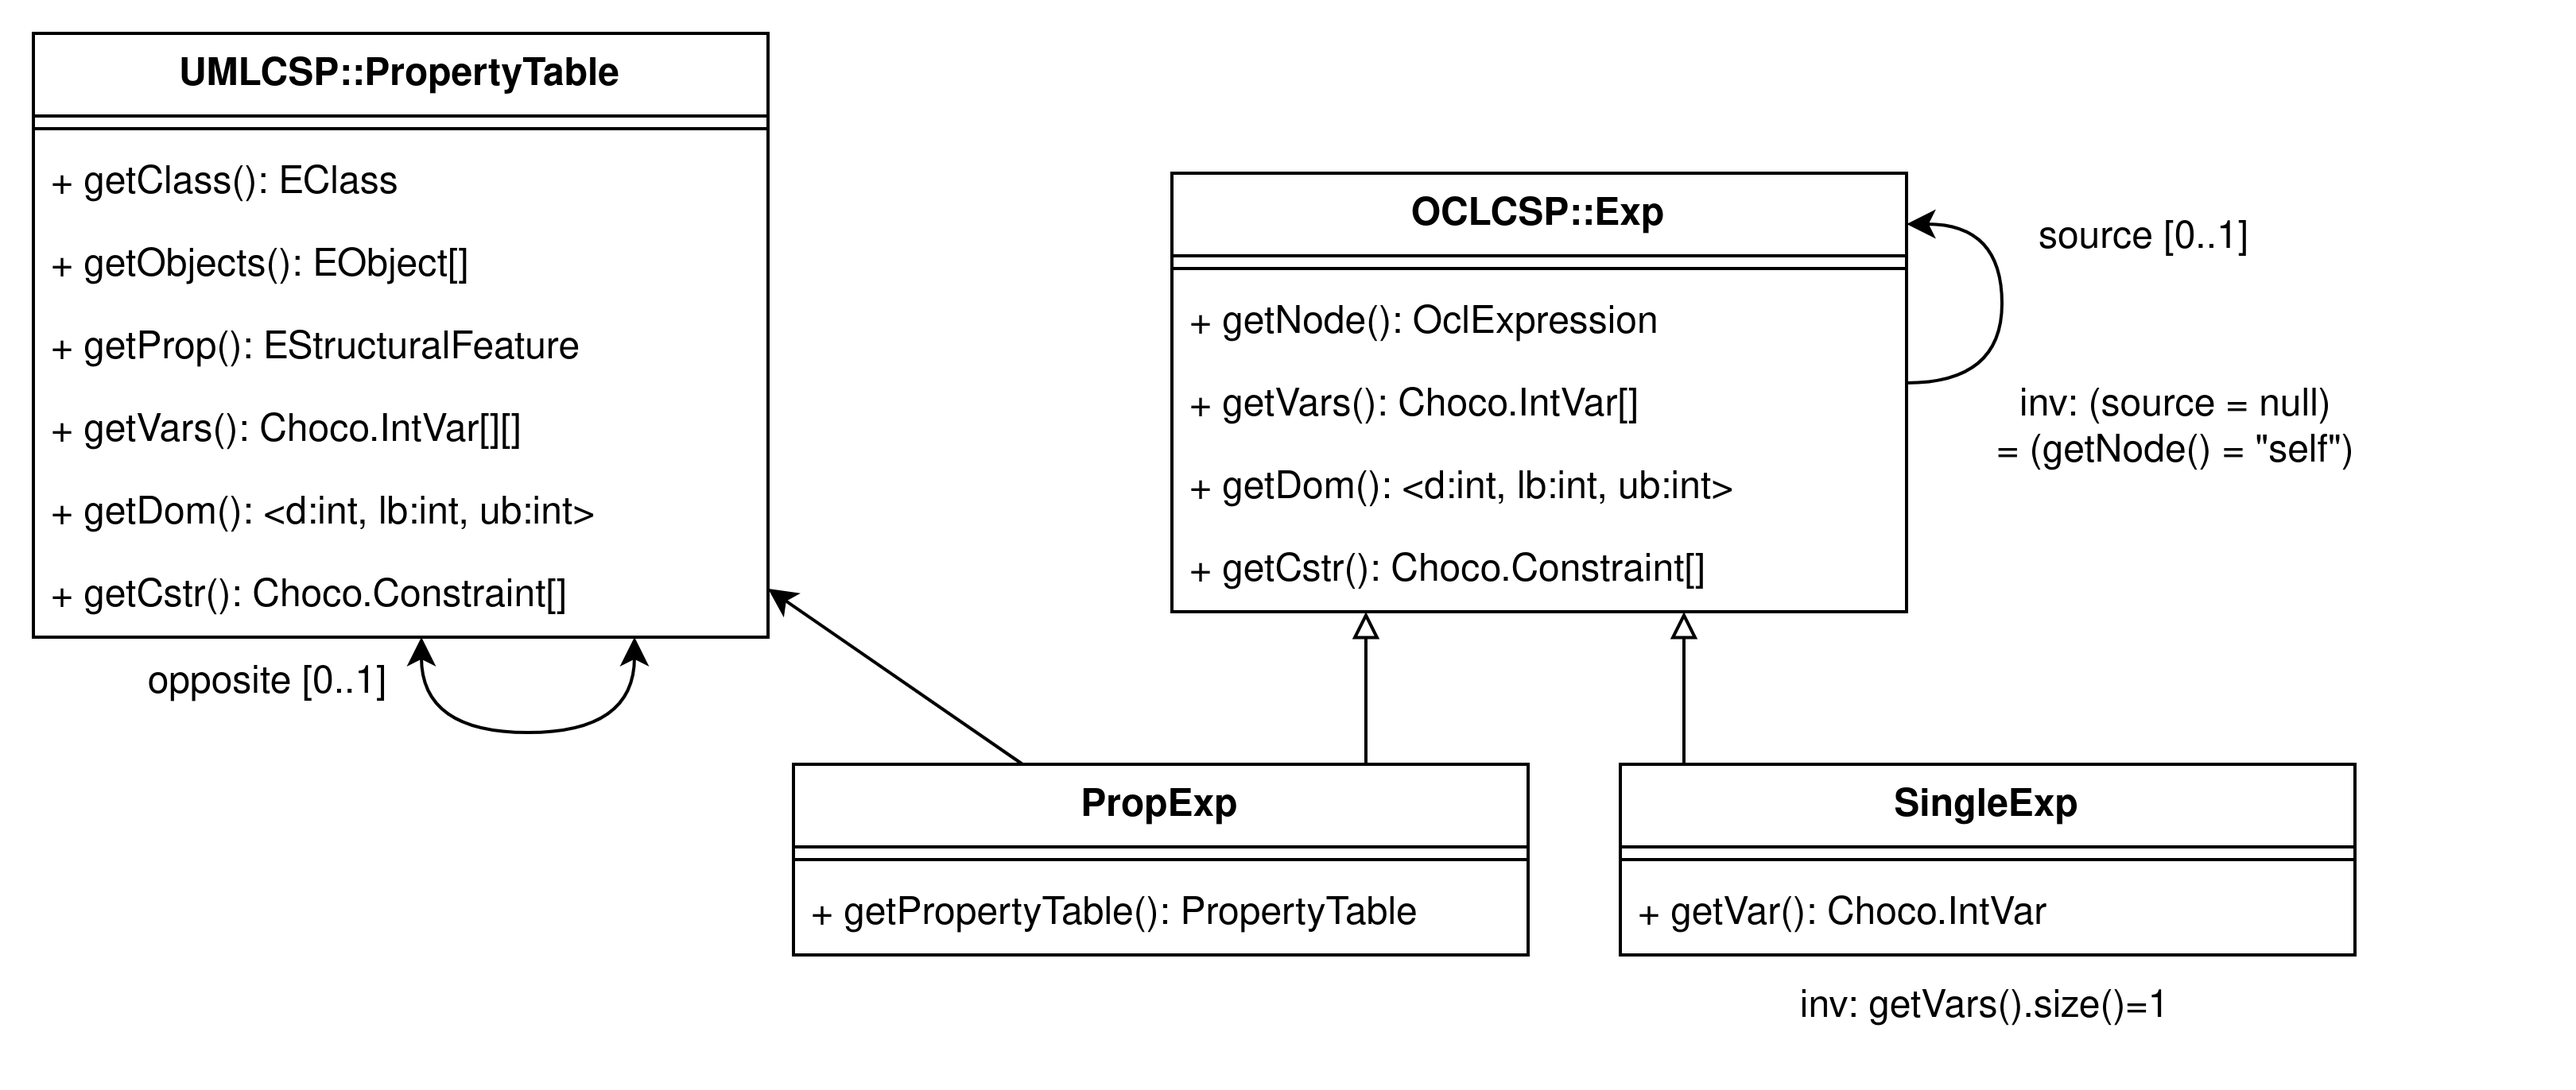
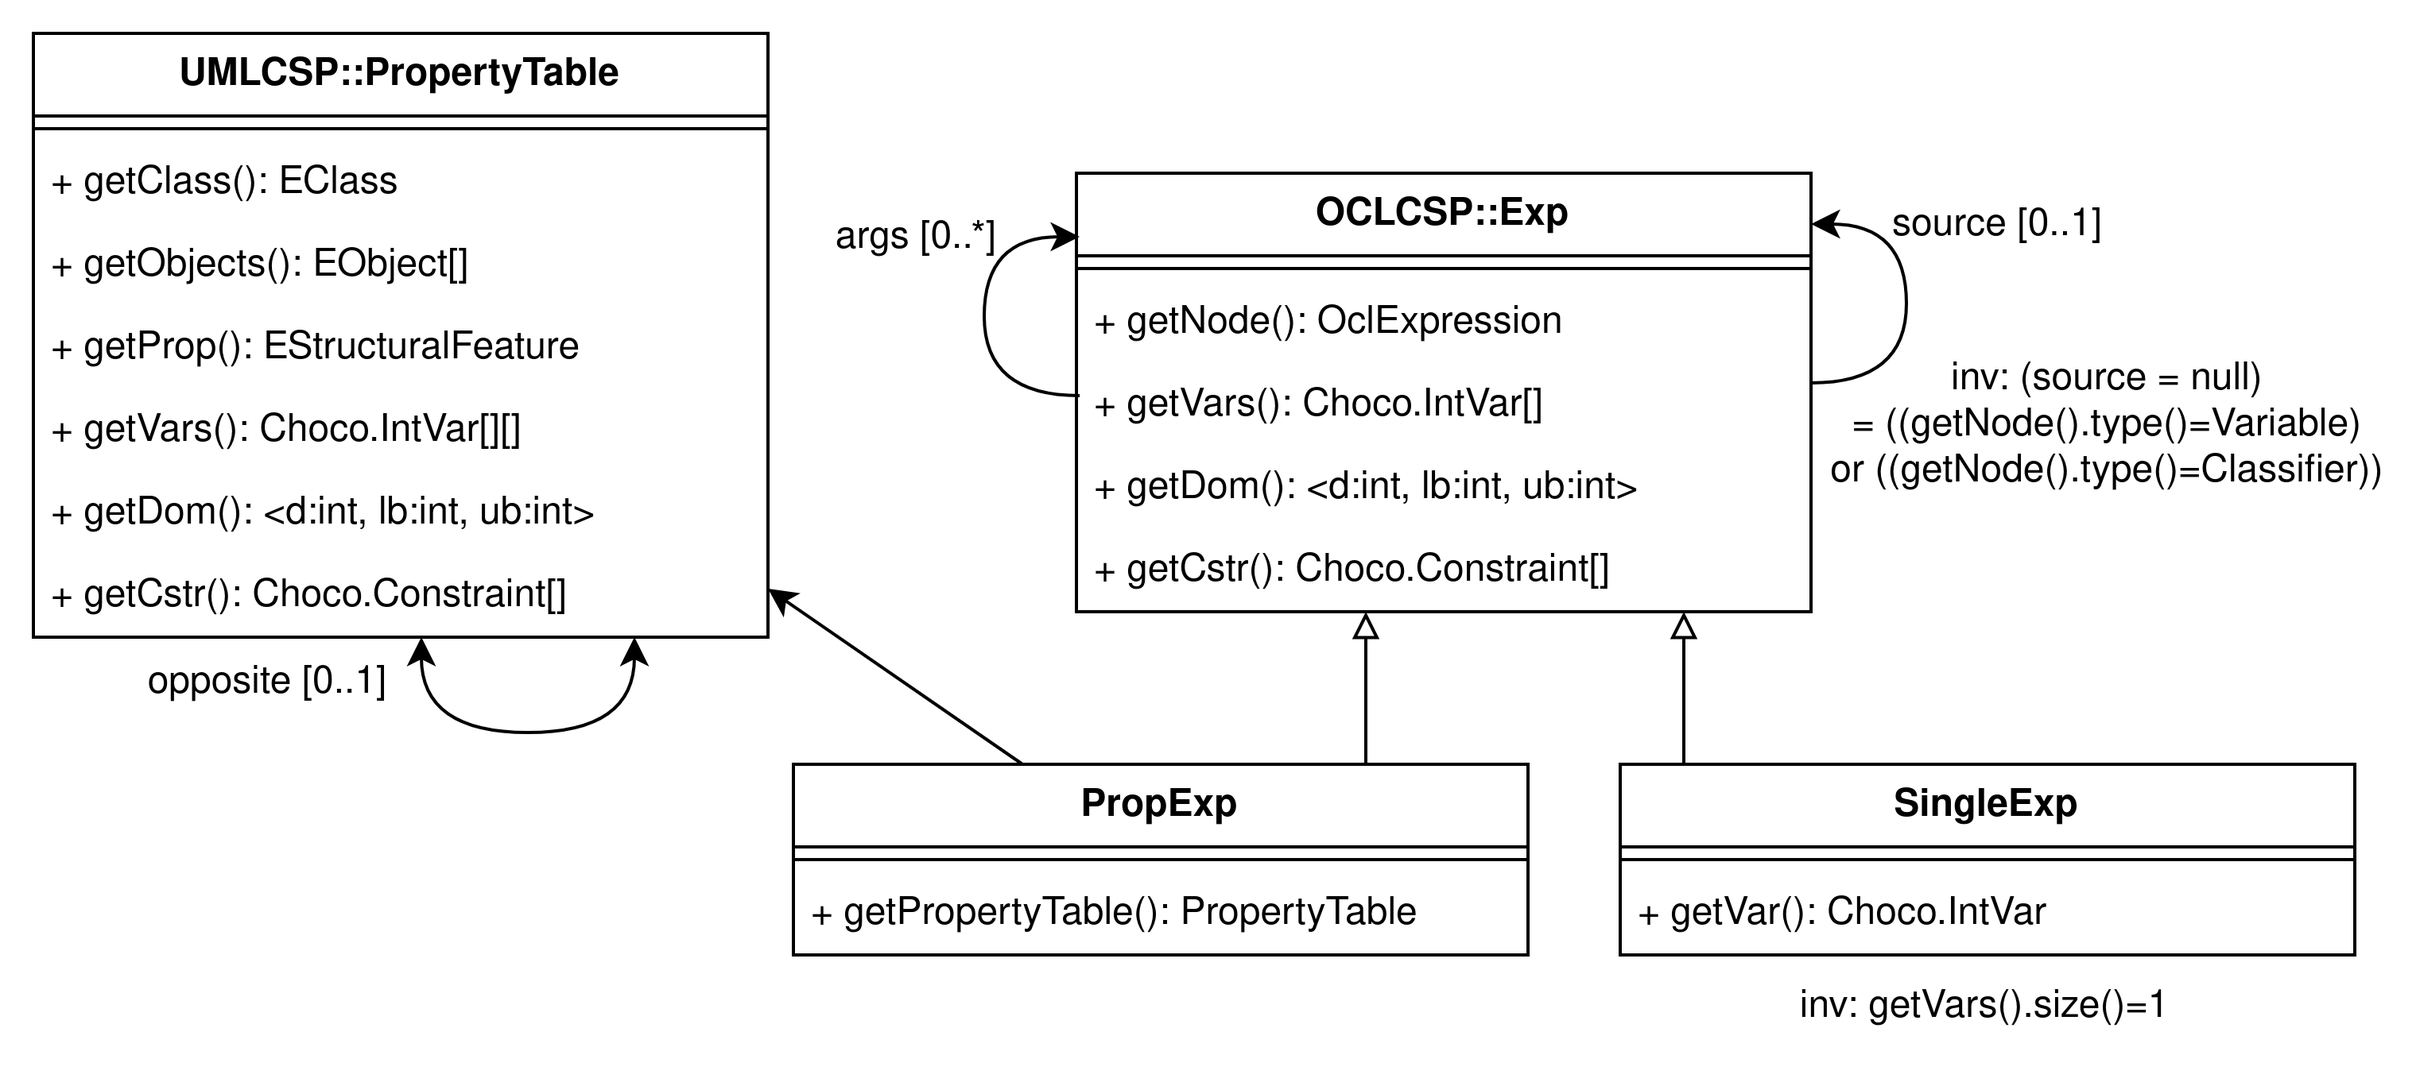
checkpoint

diff --git a/Contributions/UMLCSP/text/property.tex b/Contributions/UMLCSP/text/property.tex
@@ -56,7 +56,8 @@ Table~\ref{tab:encoding} shows the encoding of the instance from Figure~\ref{fig
 Model construction proceeds in two steps. First, we create matrices of variables with their full domains. Second, we instantiate some of these variables using data from the actual instance. In our current setting, we assign the exact values from the instance. Variables that remain uninstantiated may either be assigned dummy values or left free to explore during search, depending on the objective of the analysis.
 To choose between these behaviors and to reduce the size of the CSP, in previous work we've proposed an annotation system for OCL \cite{coyle_towards_2025}, which allows the user to identify variables. 
 These annotations split the OCL expressions into parts which can be dispatched between our CP interpretation, and that of a standard interpreter.
-This reduces the scope and size of the CSP, notably in terms of modeled properties. 
+This reduces the scope and size of the CSP, notably in terms of modeled properties.
+If the domain of the problem variables is limited and order doesn't matter, this encoding can suffice to model properties. 
 
 
 % In Table \ref{tab:encoding} we can see the encoding resulting from the instance in Figure \ref{fig:model}, and the metamodel in Figure \ref{fig:metamodel} with $n=2$ and $m=3$.
@@ -78,17 +79,11 @@ References are a special case of property, with a grately restricted domain.
 The values in the domain of pointer variables identify rows of property tables.
 The domain of relation variables is generally small enough to be enumerated.
 Therefore, we give them accompanying variables counting the occurrences for each value of the domain.
-
-\begin{equation}
-\begin{cases}
-\forall Class_o.ref \in Class.reference\\
-\implies gcc(Class_o.ref, Class_o.refOcc)
-\end{cases}
-\end{equation}
-
-
-$$Class.ref = \{r_{00},...,r_{nm}\}$$
-$$Class.refOcc = \{occ_{00},...,occ_{nm}\}$$
-$$\forall r \in Class.ref,\;domain(r) = \{0..n'\}$$
-$$\forall occ \in Class.refOcc,\;domain(occ) = \{0..m\}$$
-$$\forall n :object \in Class,\; gcc(Class_o.ref, Class_o.refOcc)$$
+$$Class.propOcc = \{occ_{00},...,occ_{oq}\}$$
+$$\forall x \in Class.propOcc,\;domain(x) = \{0..q\}$$
+We similarly declare a table of variables, where $o$ is the number of objects of the class, but $q$ is the number of objects in the target class.
+The domain of these variables is 
+These variables are constrained to the property variables with the \textit{global cardinality constraint} $gcc$: 
+$$gcc(\mathit{Class_o.property}, \mathit{Class_o.propOcc})$$
+The $gcc$ constraint in applied to each object (or row) individually.
+We can also use this encoding and constraint to apply set constraints, and to navigate the graph with multiplicity.

diff --git a/Contributions/UMLCSP/umlcsp.tex b/Contributions/UMLCSP/umlcsp.tex
@@ -1,11 +1,20 @@
 \clearemptydoublepage
 \chapter{Contribution : UML CSP}
+In this chapter we present the encoding of the UML model as a constraint satisfaction problem.
 
-\begin{outline}
-    \item We can model Integer Collections type properties (it is possible to encode a lot of finite domain problems for different property types)
-    \item This encoding works for both integer attributes and object references
-    \item References has have extra "layers of models", leveraging the limited domains for pointer variables
-\end{outline}
+\begin{figure}[!ht]
+    \centering
+    \includegraphics[trim={0 0 0 0},width=1\linewidth]{Contributions/UMLCSP/figures/UMLCSP.png}
+    \caption{Property Tables in our metamodel of UMLCSP}
+    \label{fig:metamodel}
+\end{figure}
+
+We can model Integer Collections type properties using arrays of integer variables. 
+It is possible to encode a lot of finite domain problems for different property types.
+This encoding works for both integer attributes and object references.
+
+
+References has have \textit{extra layers} of models, leveraging the limited domains for pointer variables
 
 
 \section{Encoding Properties}

diff --git a/Contributions/UMLCSP/text/referencetypes.tex b/Contributions/UMLCSP/text/referencetypes.tex
@@ -2,6 +2,10 @@
 
 % $$\forall i,j \in \{0..n\}*\{0..n'\} A.refOcc_{ij},\neq 0 \iff B.oppOcc_{ji}\neq 0$$
 
-When two references are opposites, such as \emph{child} and \emph{parent}, we need to do stuff:
+UML offers an array of specific reference types, an important one for our models is \inlineocl{Opposite}.
+An example of opposite relation is the parental between two \inlineocl{Person}: the opposite of \inlineocl{Person.child} is \inlineocl{Person.parent}.
+Using the \textit{occurrence variable encoding} of the two references' property tables, we simply apply a \textit{if it occurs in one, it occurs in the other}:  
+$$A_i.refOcc_{j},\neq 0 \iff B_j.oppOcc_{i}\neq 0$$s
 
-$$\forall i,j \in \{0..n\}*\{0..n'\} A.refOcc_{ij},\neq 0 \iff B.oppOcc_{ji}\neq 0$$s
+Additionally UML offers a containment relation which can easily be modeled with an additional $gcc$ on the whole property table, for which the occurrence variables domains are 0/1.
+To do containment on a self-referential reference, we need to add the CSP equivalent to \inlineocl{self.ref.closure().excludes(self)}.

diff --git a/Context/SOTA/text/atlc.tex b/Context/SOTA/text/atlc.tex
@@ -49,7 +49,7 @@ By chaining ATL$^{\text{c}}$ model transformations on can also chain solvers bes
 \begin{figure}[!ht]
     \centering
     \includegraphics[trim={0 0 0 0},width=1\linewidth]{Context/SOTA/figures/atlcschedule.png}
-    \caption{Alloy visualization of the solution}
+    \caption{Scheduling App resulting from a chain of ATL$^{\text{c}}$ model transformations}
     \label{fig:metamodel}
 \end{figure}
 In this figure, we see an example result from a chain of ATL$^{\text{c}}$ transformations.

diff --git a/Contributions/OCLCSP/navCSP/navcsp.tex b/Contributions/OCLCSP/navCSP/navcsp.tex
@@ -1,5 +1,13 @@
 \clearemptydoublepage
 \chapter{Contribution : OCL Navigation}
+In this chapter we present the model for the navigation, preserving order and multiplicity.
+
+\begin{figure}[!ht]
+    \centering
+    \includegraphics[trim={0 0 0 0},width=1\linewidth]{Contributions/OCLCSP/figures/navCSPMM.png}
+    \caption{navCSP in our method}
+    \label{fig:metamodel}
+\end{figure}
 
 \input{Contributions/OCLCSP/navCSP/text/model}
 \input{Contributions/OCLCSP/navCSP/text/experimentation}

diff --git a/Contributions/OCLCSP/oclcsp.tex b/Contributions/OCLCSP/oclcsp.tex
@@ -16,6 +16,13 @@
     \end{subfigure}
 \end{figure}
 
+\begin{figure}[!ht]
+    \centering
+    \includegraphics[trim={0 0 0 0},width=1\linewidth]{Contributions/OCLCSP/figures/OCLCSPMM.png}
+    \caption{metamodel of expressions in OCLCSP}
+    \label{fig:metamodel}
+\end{figure}
+
 \begin{table}[]
     \begin{tabular}{|l|l|l|l|l|l|l|}
     \hline

diff --git a/main.tex b/main.tex
@@ -110,7 +110,7 @@
 
 
 %%%%%%%%%%%%%%%%%%%%%%%%%%%%%%%%%%%%%%%%%%%%%
-% CONTENT SECTION                    
+% CONTENT SECTION                             
 %%%%%%%%%%%%%%%%%%%%%%%%%%%%%%%%%%%%%%%%%%%%%
 \clearemptydoublepage
 \input{./Introduction/introduction}
